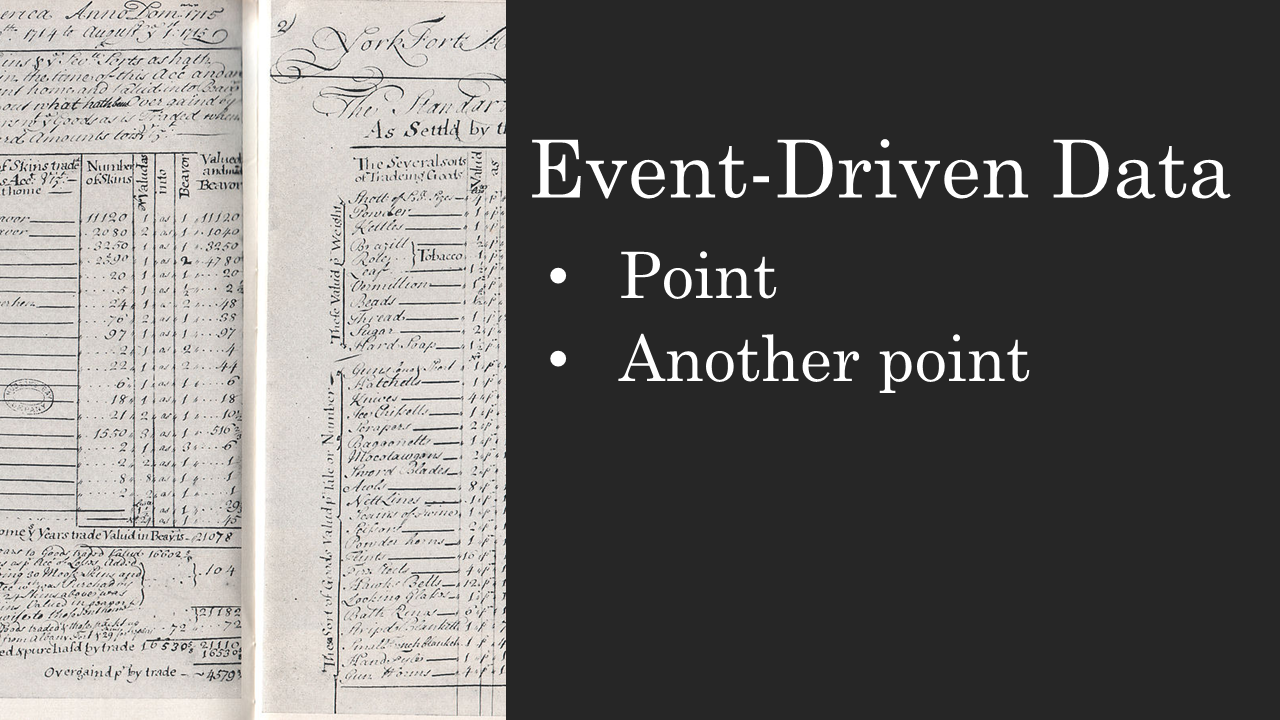
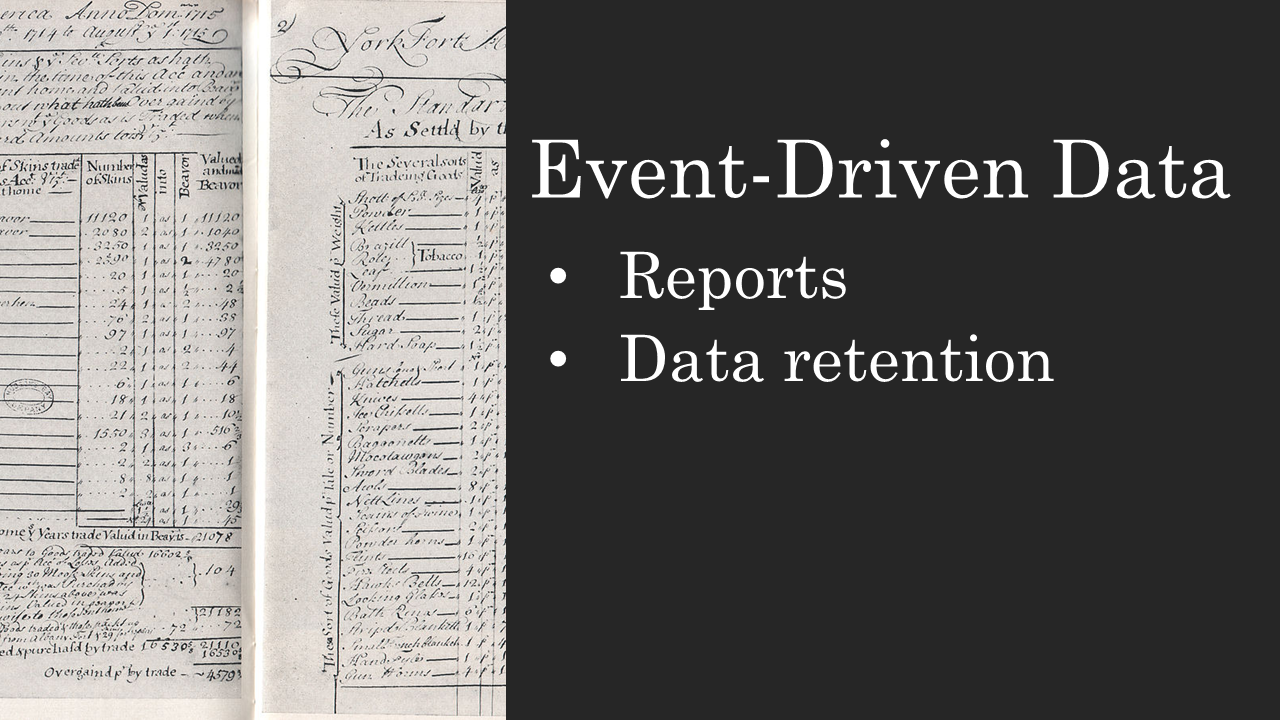
Added a bunch of bootcamp topics

Changed region(s): [[0.4688, 0.4583, 0.8438, 0.55], [0.4688, 0.3667, 0.6562, 0.4278]]

diff --git a/content/en/docs/Microservices Dev Bootcamp/Topics/Pipeline and Platform.md b/content/en/docs/Microservices Dev Bootcamp/Topics/Pipeline and Platform.md
@@ -1,0 +1,48 @@
+---
+type: docs
+title: "The Onbe Pipeline and Platform"
+linkTitle: "Pipeline and Platform"
+weight: 010
+description: >
+  The steps to Production, One Pipeline to Rule Them All and Where Does Testing Happen?
+---
+
+![The Steps to Production](/images/bootcamp-slides/microservices-bootcamp/Slide49.PNG)
+
+![Microservices Are Independent](/images/bootcamp-slides/microservices-bootcamp/Slide50.PNG)
+
+![Independent Deployment Requires Gates](/images/bootcamp-slides/microservices-bootcamp/Slide51.PNG)
+
+![Gate Before Pull Request](/images/bootcamp-slides/microservices-bootcamp/Slide52.PNG)
+
+![Every Pull Request is a Stage Site](/images/bootcamp-slides/microservices-bootcamp/Slide53.PNG)
+
+![Gates Before main](/images/bootcamp-slides/microservices-bootcamp/Slide54.PNG)
+
+![Gates Before Deployment](/images/bootcamp-slides/microservices-bootcamp/Slide55.PNG)
+
+![Is That All?](/images/bootcamp-slides/microservices-bootcamp/Slide56.PNG)
+
+![The Onbe Pipeline is Behind The Scenes](/images/bootcamp-slides/microservices-bootcamp/Slide57.PNG)
+
+![The Onbe Pipeline: Cattle, Not Pets](/images/bootcamp-slides/microservices-bootcamp/Slide58.PNG)
+
+![What About Those Other Environments?](/images/bootcamp-slides/microservices-bootcamp/Slide59.PNG)
+
+![Pipeline for a Microservice](/images/bootcamp-slides/microservices-bootcamp/Slide60.PNG)
+
+![Continuous Deployment](/images/bootcamp-slides/microservices-bootcamp/Slide61.PNG)
+
+![Notice that there is no place to test a monolith because we are not developing a monolith](/images/bootcamp-slides/microservices-bootcamp/Slide62.PNG)
+
+![Where does the Testing Happen?](/images/bootcamp-slides/microservices-bootcamp/Slide63.PNG)
+
+![Shift-Left Testing & Shift-Right Testing](/images/bootcamp-slides/microservices-bootcamp/Slide64.PNG)
+
+![Shift-Left Testing](/images/bootcamp-slides/microservices-bootcamp/Slide65.PNG)
+
+![A Microservice’s Testing Responsibilities](/images/bootcamp-slides/microservices-bootcamp/Slide66.PNG)
+
+![Shift-Right Testing](/images/bootcamp-slides/microservices-bootcamp/Slide67.PNG)
+
+![Shift-Left & Shift-Right Testing](/images/bootcamp-slides/microservices-bootcamp/Slide68.PNG)

diff --git a/content/en/docs/Microservices Dev Bootcamp/Topics/Explore the Projects.md b/content/en/docs/Microservices Dev Bootcamp/Topics/Explore the Projects.md
@@ -1,0 +1,28 @@
+---
+type: docs
+title: "Explore the Projects"
+linkTitle: "Explore the Projects"
+weight: 010
+description: >
+  Explore the Projects.
+---
+
+![Explore the Projects](/images/bootcamp-slides/microservices-bootcamp/Slide70.PNG)
+
+![Hands-On Exercises](/images/bootcamp-slides/microservices-bootcamp/Slide72.PNG)
+
+![Microservices are Independent](/images/bootcamp-slides/microservices-bootcamp/Slide73.PNG)
+
+![How the Code Was Generated](/images/bootcamp-slides/microservices-bootcamp/Slide74.PNG)
+
+![Ordering Service](/images/bootcamp-slides/microservices-bootcamp/Slide75.PNG)
+
+![Theater Management SPA](/images/bootcamp-slides/microservices-bootcamp/Slide76.PNG)
+
+![Frontend Developers’ Three Windows](/images/bootcamp-slides/microservices-bootcamp/Slide77.PNG)
+
+![A Frontend Developer at Work](/images/bootcamp-slides/microservices-bootcamp/Slide78.PNG)
+
+![VS Code Terminals](/images/bootcamp-slides/microservices-bootcamp/Slide79.PNG)
+
+![Theater Management BFF](/images/bootcamp-slides/microservices-bootcamp/Slide80.PNG)

diff --git a/content/en/docs/Microservices Dev Bootcamp/Topics/Infrastructure-as-Code.md b/content/en/docs/Microservices Dev Bootcamp/Topics/Infrastructure-as-Code.md
@@ -1,0 +1,20 @@
+---
+type: docs
+title: "Infrastructure-as-Code"
+linkTitle: "Infrastructure-as-Code"
+weight: 010
+description: >
+  Infrastructure-as-Code.
+---
+
+![Infrastructure-as-Code](/images/bootcamp-slides/microservices-bootcamp/Slide82.PNG)
+
+![Infrastructure-as-Code](/images/bootcamp-slides/microservices-bootcamp/Slide83.PNG)
+
+![Each team requests its repositories](/images/bootcamp-slides/microservices-bootcamp/Slide84.PNG)
+
+![The Microservices’ Infrastructure Requests](/images/bootcamp-slides/microservices-bootcamp/Slide85.PNG)
+
+![Resource Requests the IaC Way (1 of 2)](/images/bootcamp-slides/microservices-bootcamp/Slide86.PNG)
+
+![Resource Requests the IaC Way (1 of 2)](/images/bootcamp-slides/microservices-bootcamp/Slide87.PNG)

diff --git a/content/en/docs/Microservices Dev Bootcamp/Topics/What We're Writing.md b/content/en/docs/Microservices Dev Bootcamp/Topics/What We're Writing.md
@@ -1,0 +1,16 @@
+---
+type: docs
+title: "What We're Writing"
+linkTitle: "What We're Writing"
+weight: 010
+description: >
+  What We're Writing.
+---
+
+![What We’re Writing](/images/bootcamp-slides/microservices-bootcamp/Slide17.PNG)
+
+![Local Development/Stage Site vs. Production](/images/bootcamp-slides/microservices-bootcamp/Slide18.PNG)
+
+![From Our Client’s Perspective](/images/bootcamp-slides/microservices-bootcamp/Slide19.PNG)
+
+![A Look Ahead](/images/bootcamp-slides/microservices-bootcamp/Slide20.PNG)

diff --git a/content/en/docs/Microservices Dev Bootcamp/Topics/The KISS Principle.md b/content/en/docs/Microservices Dev Bootcamp/Topics/The KISS Principle.md
@@ -1,0 +1,16 @@
+---
+type: docs
+title: "The KISS Principle"
+linkTitle: "The KISS Principle"
+weight: 010
+description: >
+  Keep It Simple, Stupid.
+---
+
+![The KISS Principle](/images/bootcamp-slides/microservices-bootcamp/Slide96.PNG)
+
+![Bootcamp’s Current Status: MVP](/images/bootcamp-slides/microservices-bootcamp/Slide97.PNG)
+
+![Deploy Often](/images/bootcamp-slides/microservices-bootcamp/Slide98.PNG)
+
+![Compared to the Monolith…](/images/bootcamp-slides/microservices-bootcamp/Slide99.PNG)

diff --git a/content/en/docs/Microservices Dev Bootcamp/Topics/Event-Driven Data.md b/content/en/docs/Microservices Dev Bootcamp/Topics/Event-Driven Data.md
@@ -1,0 +1,16 @@
+---
+type: docs
+title: "Event-Driven Data"
+linkTitle: "Event-Driven Data"
+weight: 010
+description: >
+  Independence, zero-downtime deployment.
+---
+
+![Event-Driven Data](/images/bootcamp-slides/microservices-bootcamp/Slide109.PNG)
+
+![Reports](/images/bootcamp-slides/microservices-bootcamp/Slide110.PNG)
+
+![Data retention](/images/bootcamp-slides/microservices-bootcamp/Slide111.PNG)
+
+![Database usage](/images/bootcamp-slides/microservices-bootcamp/Slide112.PNG)

diff --git a/content/en/docs/Microservices Dev Bootcamp/Topics/BFFs.md b/content/en/docs/Microservices Dev Bootcamp/Topics/BFFs.md
@@ -1,0 +1,14 @@
+---
+type: docs
+title: "BFFs"
+linkTitle: "BFFs"
+weight: 010
+description: >
+  Backends for Frontends.
+---
+
+![Databases for Microservices](/images/bootcamp-slides/microservices-bootcamp/Slide92.PNG)
+
+![Microservices are Independent](/images/bootcamp-slides/microservices-bootcamp/Slide93.PNG)
+
+![Database Migration During Deployment](/images/bootcamp-slides/microservices-bootcamp/Slide94.PNG)

diff --git a/content/en/docs/Microservices Dev Bootcamp/Topics/Authentication.md b/content/en/docs/Microservices Dev Bootcamp/Topics/Authentication.md
@@ -1,0 +1,14 @@
+---
+type: docs
+title: "Authentication"
+linkTitle: "Authentication"
+weight: 010
+description: >
+  Authentication.
+---
+
+![Authentication](/images/bootcamp-slides/microservices-bootcamp/Slide101.PNG)
+
+![Synthetic Users](/images/bootcamp-slides/microservices-bootcamp/Slide102.PNG)
+
+![Feature Toggles & Synthetic Users](/images/bootcamp-slides/microservices-bootcamp/Slide103.PNG)

diff --git a/content/en/docs/Microservices Dev Bootcamp/Topics/Health Checks.md b/content/en/docs/Microservices Dev Bootcamp/Topics/Health Checks.md
@@ -1,0 +1,11 @@
+---
+type: docs
+title: "Health Checks"
+linkTitle: "Health Checks"
+weight: 010
+description: >
+  Is your microservice healthy?
+---
+
+![Health Checks](/images/bootcamp-slides/microservices-bootcamp/Slide107.PNG)
+

diff --git a/content/en/docs/Microservices Dev Bootcamp/Topics/Observability.md b/content/en/docs/Microservices Dev Bootcamp/Topics/Observability.md
@@ -1,0 +1,10 @@
+---
+type: docs
+title: "Observability"
+linkTitle: "Observability"
+weight: 010
+description: >
+  Logging, tracing and metrics.
+---
+
+![Observability](/images/bootcamp-slides/microservices-bootcamp/Slide105.PNG)

diff --git a/content/en/docs/Microservices Dev Bootcamp/Topics/Databases.md b/content/en/docs/Microservices Dev Bootcamp/Topics/Databases.md
@@ -1,0 +1,9 @@
+---
+type: docs
+title: "Databases"
+linkTitle: "Databases"
+weight: 010
+description: >
+  Independence, zero-downtime deployment.
+---
+
